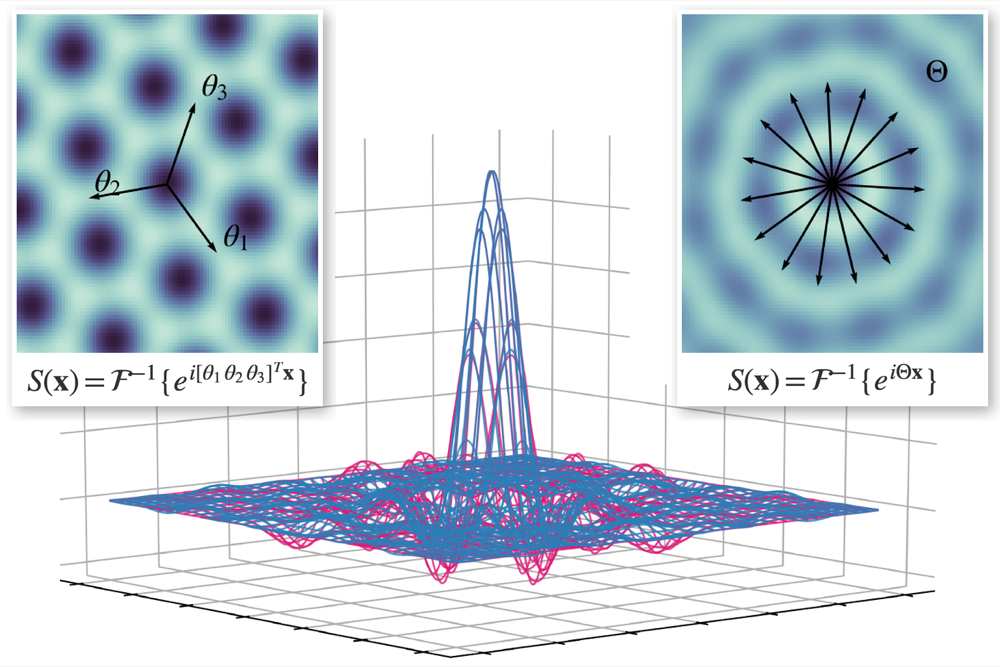
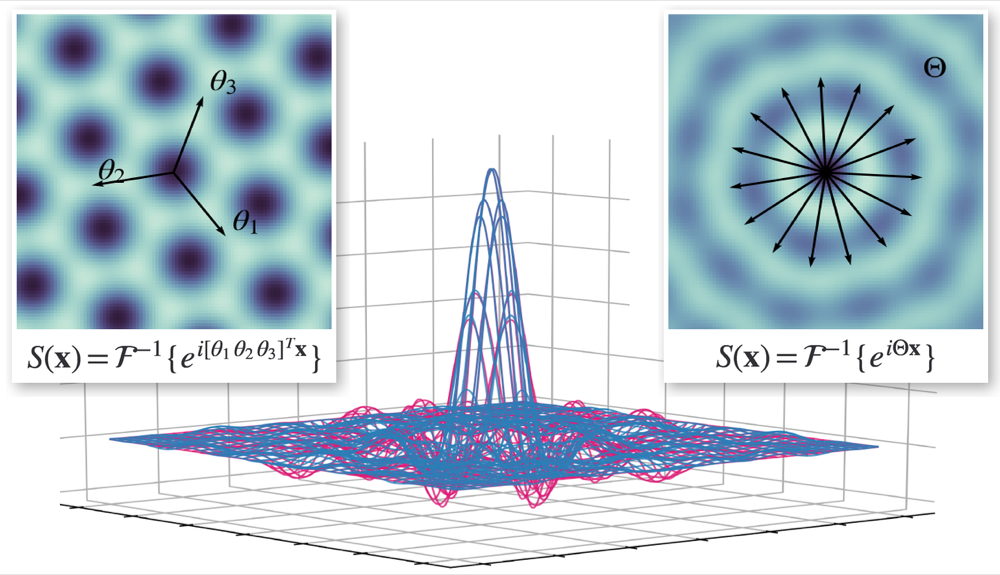
Title-case Nature Comms paper title; shorter teaser with square inserts

diff --git a/publications.html b/publications.html
@@ -74,7 +74,7 @@
                 <div class="col-md-3"><img class="rounded img-fluid" src="assets/img/collaborators/ssp_bo_teaser.png"
                         alt="Teaser image for paper"></div>
                 <div class="col-md-9">
-                    <h5 class="fw-bold"><span class="badge bg-danger me-2 align-middle">NEW</span>Compositional neurosymbolic representations enable efficient active exploration</h5>
+                    <h5 class="fw-bold"><span class="badge bg-danger me-2 align-middle">NEW</span>Compositional Neurosymbolic Representations Enable Efficient Active Exploration</h5>
                     <p class="fw-normal mb-1">P M Furlong*, N S-Y Dumont*, <strong>R Antonova</strong>*, J Orchard, C
                         Eliasmith. <em>Nature Communications, 2026</em></p>
                     <p class="text-muted fst-italic mb-2" style="font-size: 0.95em;">*These authors contributed
